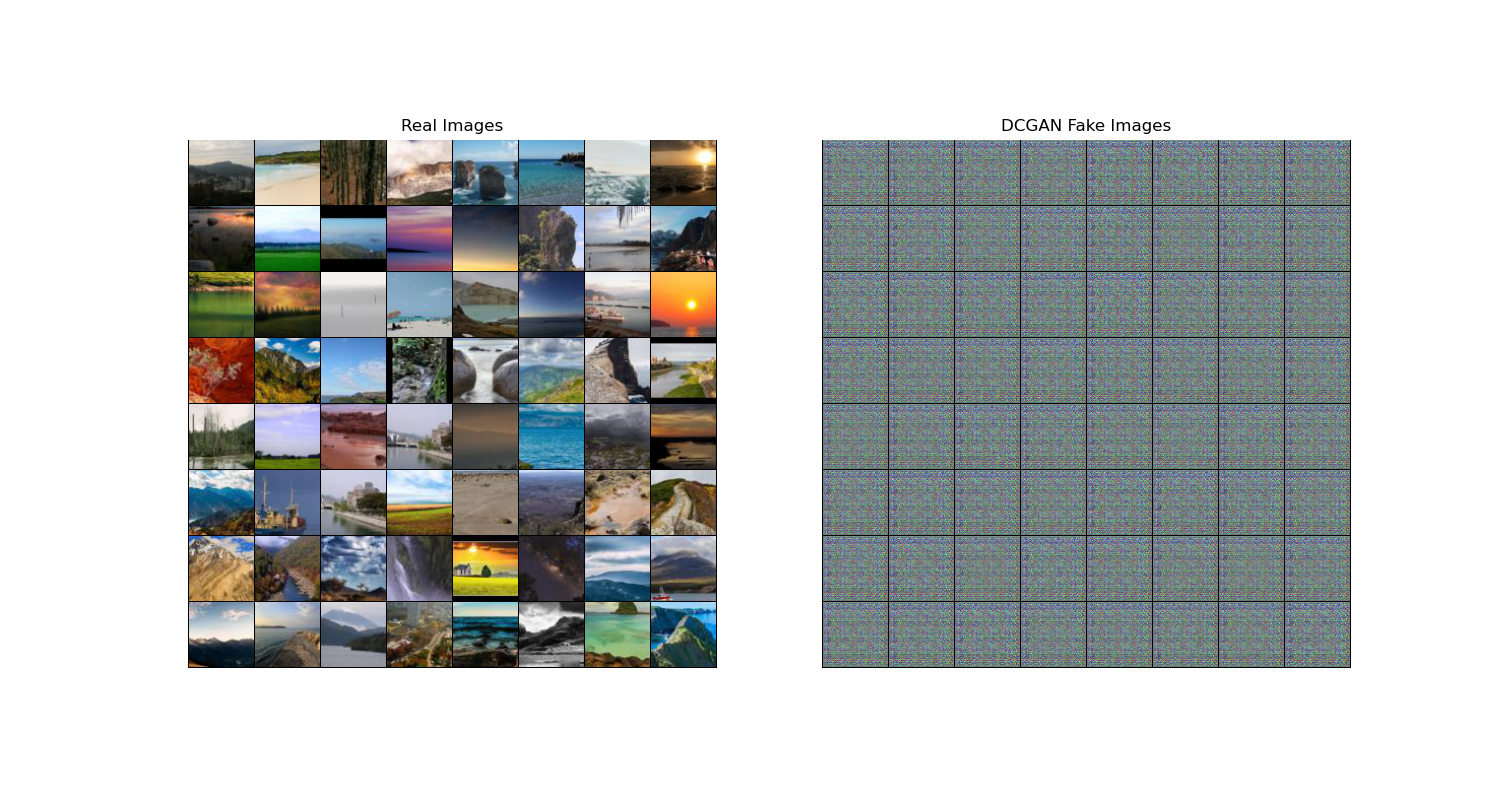
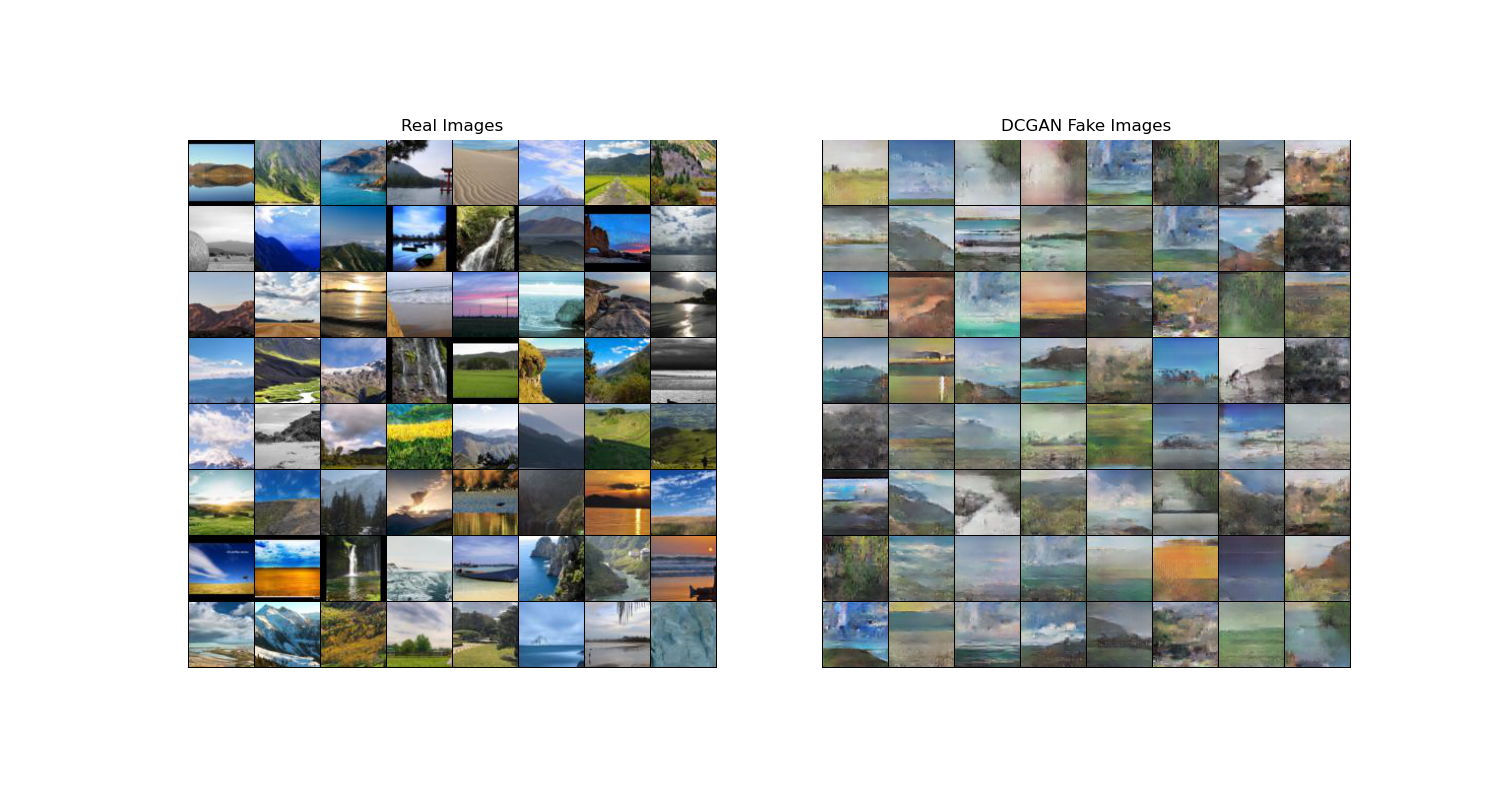
add outputs 64

diff --git a/src/train.py b/src/train.py
@@ -22,7 +22,7 @@ def train(generator, discriminator, train_loader, optimizer_gen, optimizer_dis, 
     generator_losses = []
     discriminator_losses = []
     iters = 0
-    num_epochs = 1
+    num_epochs = 2000
     real_label = 1
     fake_label = 0
     fixed_noise = torch.randn(64, noise_size, 1, 1, device=device)
@@ -64,7 +64,7 @@ def train(generator, discriminator, train_loader, optimizer_gen, optimizer_dis, 
             generator_losses.append(generator_loss.item())
             discriminator_losses.append(discriminator_loss.item())
 
-            if (iters % 250 == 0) or ((epoch == num_epochs - 1) and (i == len(train_loader) - 1)):
+            if (iters % 750 == 0) or ((epoch == num_epochs - 1) and (i == len(train_loader) - 1)):
                 with torch.no_grad():
                     fake = generator(fixed_noise).detach().cpu()
                 img_list.append(vutils.make_grid(fake, padding=1, normalize=True))
@@ -75,7 +75,7 @@ def train(generator, discriminator, train_loader, optimizer_gen, optimizer_dis, 
 
 def plot_loss(generator_losses, discriminator_losses):
     plt.figure(figsize=(10, 5))
-    plt.title("Generator and Discriminator Loss During Training")
+    plt.title("DCGAN Generator and Discriminator Loss During Training")
     plt.plot(generator_losses, label="Generator")
     plt.plot(discriminator_losses, label="Discriminator")
     plt.xlabel("Iterations")
